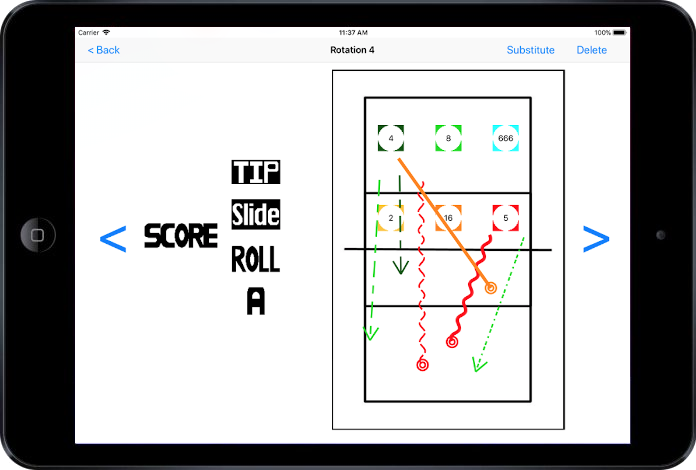
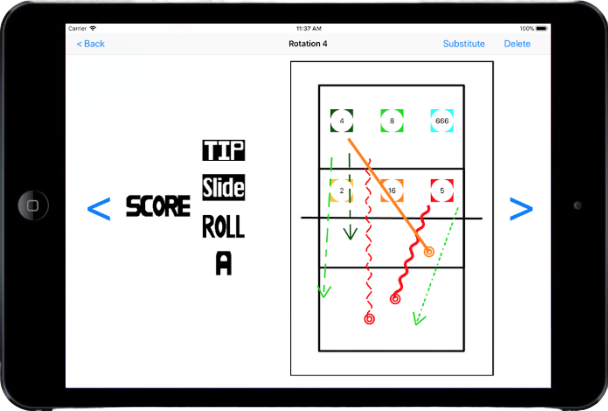
Made header in landscape mode much smaller

diff --git a/resources/css/queries.css b/resources/css/queries.css
@@ -25,7 +25,6 @@
     }
 }
 
-
 /* -------------------------------------------------- */
 /* Small tablets to big tablet: from 768px to 1023px */
 /* -------------------------------------------------- */
@@ -117,7 +116,6 @@
     }
 
 
-
     .header-name {
         display: none;
     }
@@ -186,6 +184,9 @@
         font-size: 10vh;
     }
 
+    nav {
+        height: 100px;
+    }
 
     .centerpiece {
         width: 100%;
@@ -196,6 +197,26 @@
     .centerpiece .subheader {
         font-size: 4vh;
         word-spacing: 1px;
+    }
+
+    .header-nav li a:before,
+    .menu-button:before {
+        font-size: 30px;
+    }
+
+    .header-nav li,
+    .dropdown-menu {
+        width: 60px;
+    }
+
+    .header-nav li a:hover:before,
+    .header-nav li a:active:before {
+        font-size: 50px;
+        transition: font-size 0.2s;
+    }
+
+    .dropdown-menu:hover .menu-button:before {
+        font-size: 50px;
     }
 
 
